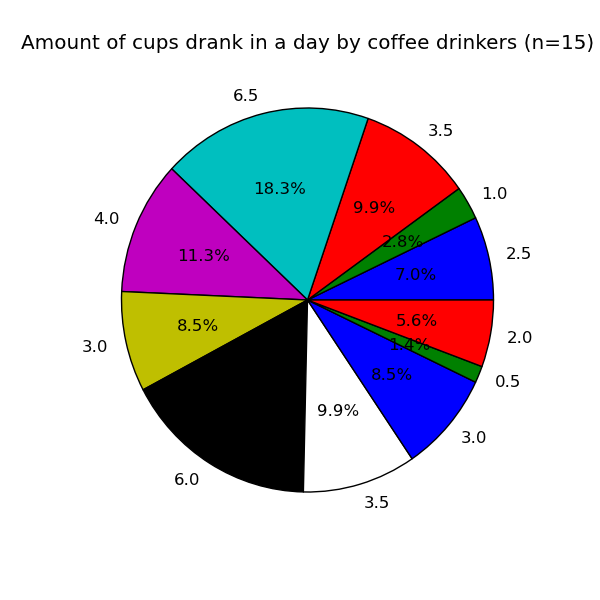
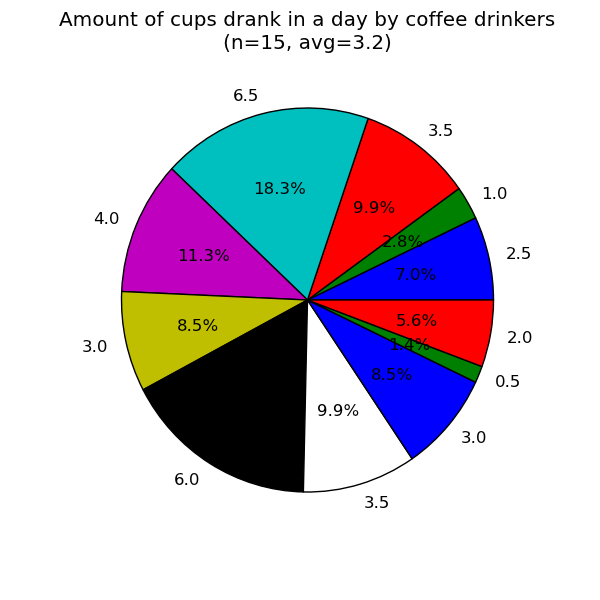
Fix image titles.

Changed region(s): [[0.03, 0.0, 0.99, 0.09]]

diff --git a/coffee-exercise/coffee.tex b/coffee-exercise/coffee.tex
@@ -70,16 +70,21 @@ presented to programmers in the Futurice office.
 % Results
 \section{Results}
 
-
+The results presented in Appendix \ref{survey} and visualized in
+Appendix \ref{charts} show that approximately 73 \% of the developers
+surveyed drink coffee with an average of 3.2 cups a day.
 
 % Discussion
 \section{Discussion}
 
 % Problems:
+% - What numbers are the results compared to?
 % - How big is a cup?
 % - What if people drink several different drinks?
 % - Is Futurice employees representative of the Software Developer community?
 % - Is the surveyed sample representative of Futurice employees?
+
+
 
 \clearpage
 \appendix

diff --git a/coffee-exercise/plot.py b/coffee-exercise/plot.py
@@ -47,7 +47,9 @@ def gen_amounts():
     fig = pylab.figure(1, figsize=(6, 6))
     amounts = [avg([d[1], d[2]]) for d in coffee_data]
     pylab.pie(amounts, labels=[str(n) for n in amounts], autopct='%1.1f%%')
-    pylab.title(u'Amount of cups drank in a day by coffee drinkers (n={0})'.format(len(RAW_DATA)))
+    avg_amount = '{0:.2}'.format(avg(amounts))
+    pylab.title((u'Amount of cups drank in a day by coffee drinkers\n(n={0}, '
+                 u'avg={1})').format(len(RAW_DATA), avg_amount))
     fig.savefig('amounts.png')
     pylab.clf()
 
